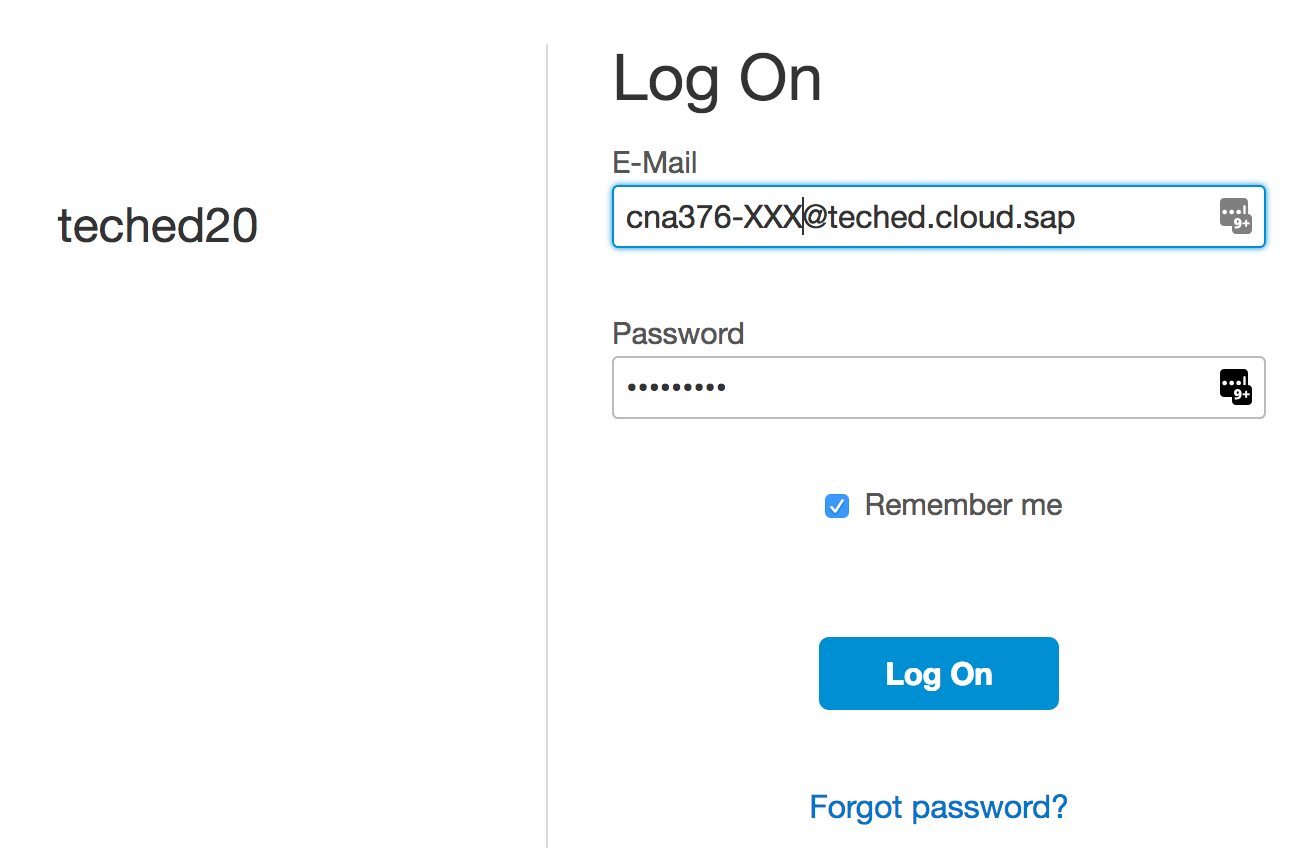
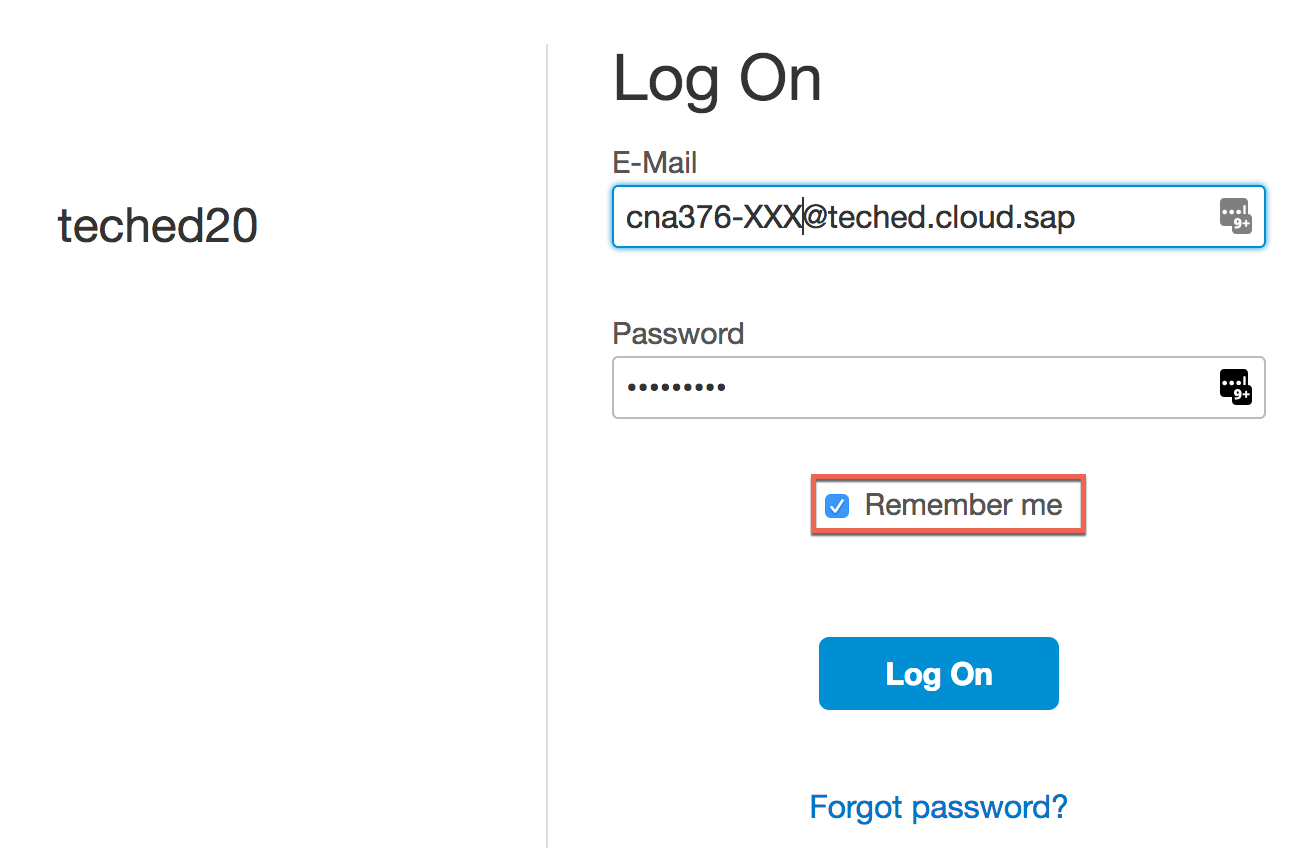
Remember me

Changed region(s): [[0.6135, 0.5519, 0.8589, 0.6439]]

diff --git a/-exercises-/01-Setup/README.md b/-exercises-/01-Setup/README.md
@@ -12,16 +12,16 @@ In this exercise you will learn how to clone the Git repository that contains th
 
 ### 1. Log on to Web IDE
 
-1.1. In a first step you need to access the Web IDE of your account. For the hands-on session **CNA376** at SAP TechEd 2018 use the [following link](https://webidecp-jgxcdnv3bs.dispatcher.hana.ondemand.com/) and the credentials from the session intructors.
-<p align="center"><img width="420" src="res/pic100.png" alt="Log on screen"> </p>
+1.1. In a first step you need to access the Web IDE of your account. For the hands-on session **CNA376** at SAP TechEd 2018 use the [following link](https://webidecp-jgxcdnv3bs.dispatcher.hana.ondemand.com/) and the credentials from the session intructors.  Select the `Remember me` checkbox.
+   <p align="center"><img width="420" src="res/pic100.png" alt="Log on screen"> </p>
 
 1.2. In case you are asked to upgrade your account, set the tick at the field `I acknowledge...` and provide your First Name (e.g. CNA376) and your Last Name "xxx".
 
-<p align="center"><img width="420" src="res/pic101.png" alt="Upgrade account"> </p>
+   <p align="center"><img width="420" src="res/pic101.png" alt="Upgrade account"> </p>
 
 1.3. The Web IDE opens up and shows your workspace. The workspace is empty if you use it for the first time.
 
-<p align="center"><img width="640" src="res/pic102.png" alt="Web IDE workspace"> </p>
+   <p align="center"><img width="640" src="res/pic102.png" alt="Web IDE workspace"> </p>
 
 ### 2. Setup workspace settings
 
